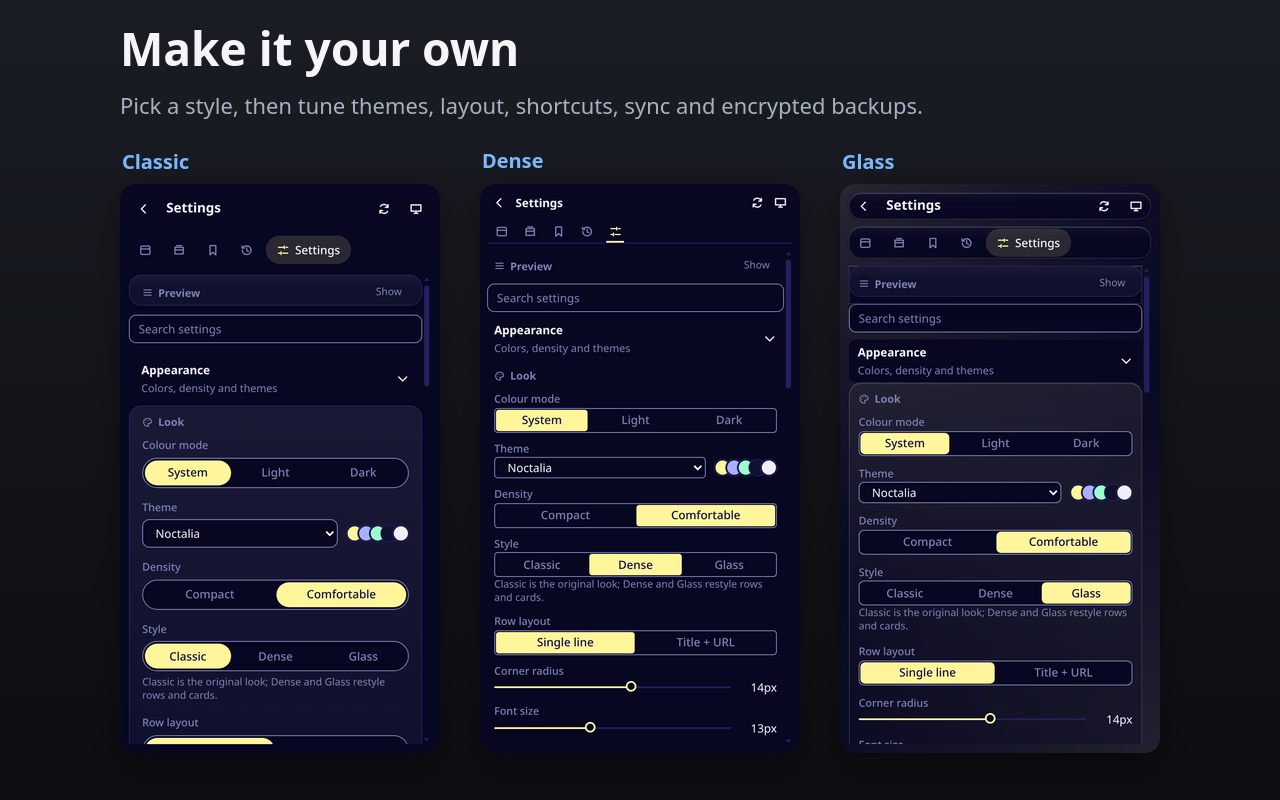
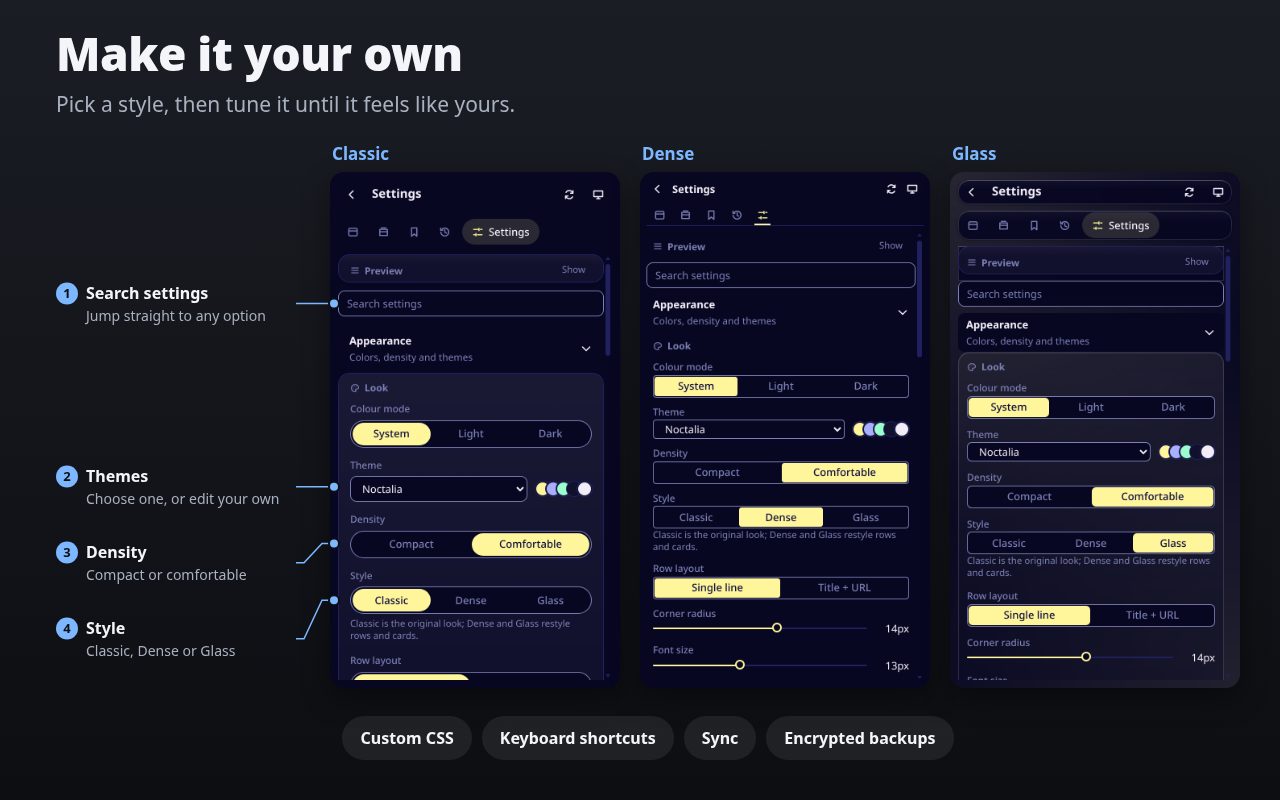
docs(store): add callout infographics and use Markdown on AMO
Rebuild the store images with numbered callouts and fact strips across
all three styles, rendered with Playwright. AMO shows HTML descriptions
as literal text, so the description is now Markdown.

diff --git a/docs/store/AMO.md b/docs/store/AMO.md
@@ -84,7 +84,7 @@ Local-first, no tracking, free and open source.
 
 **Support site:** <https://github.com/humdedum1/vertically-challenged/issues>
 
-**Description:** see `description` in `amo-metadata.json`.
+**Description:** see `description` in `amo-metadata.json`. AMO renders it as limited Markdown (bold, italics, links, lists, blockquotes), and any HTML shows up as literal text.
 
 ## What differs from the Chrome listing
 
